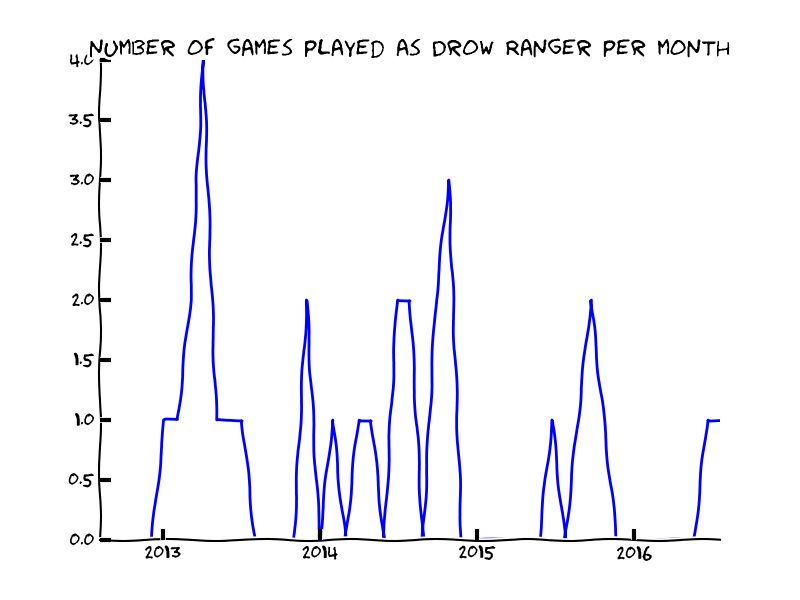
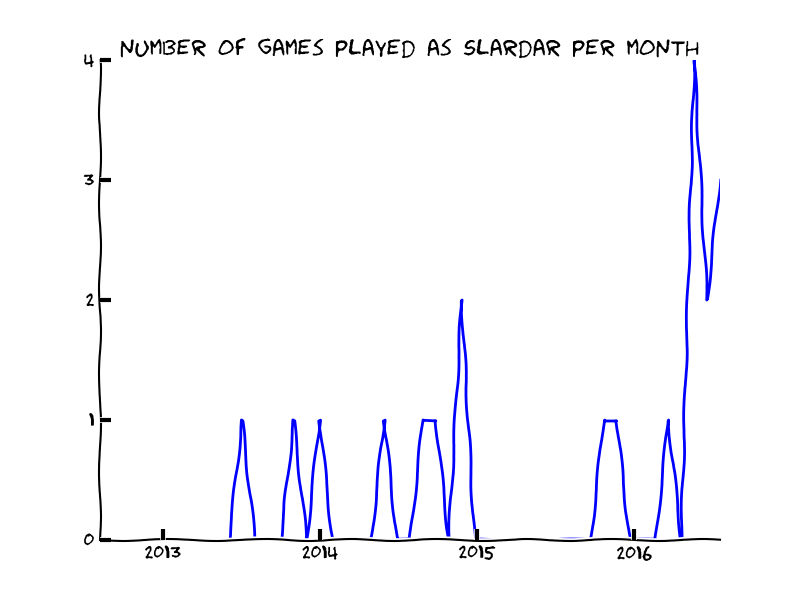
fix records for heroes

diff --git a/dota2bot/stat_func.py b/dota2bot/stat_func.py
@@ -421,9 +421,16 @@ def winrate_solo(player_id):
     return array
 
 
-def records(player_id):
-    custom_args = {
-                'result.players.account_id': player_id}
+def records(player_id, *hero_id):
+    if not hero_id:
+        custom_args = {
+                    'result.players.account_id': player_id}
+    else:
+        custom_args = {
+                'result.players':
+                {'$elemMatch': {"account_id": player_id, "hero_id": hero_id[0]}},
+                }
+
     custom_args.update(match_search_args)
     cursor = db['{}'.format(player_id)].find(custom_args)
     cursor.sort('result.start_time', -1)
@@ -466,23 +473,34 @@ def records(player_id):
             array2[10][2] = match['start_time']
     m, s = divmod(array2[10][0], 60)
     array2[10][0] = '{}m{}s'.format(m, s)
-    return """{0}
-            **All-Time Records**:
+    reply = """{0}
+            **All-Time Records{34}**:
 
-            **Kills**:              **{1}** as **{12}** ({23} ago)
-            **Deaths**:             **{2}** as **{13}** ({24} ago)
-            **Assists**:            **{3}** as **{14}** ({25} ago)
-            **Lasthits**:           **{4}** as **{15}** ({26} ago)
-            **Denies**:             **{5}** as **{16}** ({27} ago)
-            **GPM**:                **{6}** as **{17}** ({28} ago)
-            **XPM**:                **{7}** as **{18}** ({29} ago)
-            **Hero Damage**:        **{8}** as **{19}** ({30} ago)
-            **Tower Damage**:       **{9}** as **{20}** ({31} ago)
-            **Hero Healing**:       **{10}** as **{21}** ({32} ago)
-            **Longest Match**:      **{11}** as **{22}** ({33} ago)
-            """.format(
-                dic_reverse[player_id],
-                *[i[0] for i in array2],
-                *[hero_dic[i[1]] for i in array2],
-                *[time_diff(i[2]) for i in array2]
-            )
+**Kills**:          **{1}** {12} {23}
+**Deaths**:         **{2}** {13} {24}
+**Assists**:        **{3}** {14} {25}
+**Lasthits**:       **{4}** {15} {26}
+**Denies**:         **{5}** {16} {27}
+**GPM**:            **{6}** {17} {28}
+**XPM**:            **{7}** {18} {29}
+**Hero Damage**:    **{8}** {19} {30}
+**Tower Damage**:   **{9}** {20} {31}
+**Hero Healing**:   **{10}** {21} {32}
+**Longest Match**:  **{11}** {22} {33}
+            """
+    if not hero_id:
+        return reply.format(
+                    dic_reverse[player_id],
+                    *[i[0] for i in array2],
+                    *[' as **{}**'.format(hero_dic[i[1]]) for i in array2],
+                    *['{} ago'.format(time_diff(i[2])) if i[2] != 0 else "" for i in array2],
+                    ''
+                )
+    else:
+        return reply.format(
+                    dic_reverse[player_id],
+                    *[i[0] for i in array2],
+                    *['' for i in array2],
+                    *['({} ago)'.format(time_diff(i[2])) if i[2] != 0 else "" for i in array2],
+                    ' as {}'.format(hero_dic[hero_id[0]])
+                )

diff --git a/dota2bot/bot.py b/dota2bot/bot.py
@@ -319,9 +319,16 @@ async def on_message(message):
         uptime = time_diff(launch_time)
         await client.send_message(message.channel, uptime)
 
-    if message.content == '!records':
+    if message.content.startswith('!records'):
         player_id = player_dic[message.author.name]
-        reply = records(player_id)
+        if message.content == '!records':
+            reply = records(player_id)
+        else:
+            content = str(message.content).split()
+            hero_name = content[1]
+            hero_id = list(hero_dic.keys())[
+                list(hero_dic.values()).index(hero_name)]
+            reply = records(player_id, hero_id)
         await client.send_message(message.channel, reply)
 
     if message.content.startswith('!tip'):

diff --git a/dota2bot/hero_graph.py b/dota2bot/hero_graph.py
@@ -69,12 +69,10 @@ def hero_per_month(player_id, hero_id):
     ax.yaxis.set_ticks_position('left')
     ax.xaxis.set_ticks_position('bottom')
     tick = 5 if max(y) > 20 else 1
-    #yint = range(min(y), math.ceil(max(y))+2, tick)  # set only int ticks
-    #plt.yticks(yint)
+    yint = range(min(y), math.ceil(max(y))+2, tick)  # set only int ticks
+    plt.yticks(yint)
     plt.plot(secs, y, color='blue')
 
     plt.savefig('images/graphs/hero.png')
 
     return "{} games".format(kk)
-
-hero_per_month(56232406, 6)
